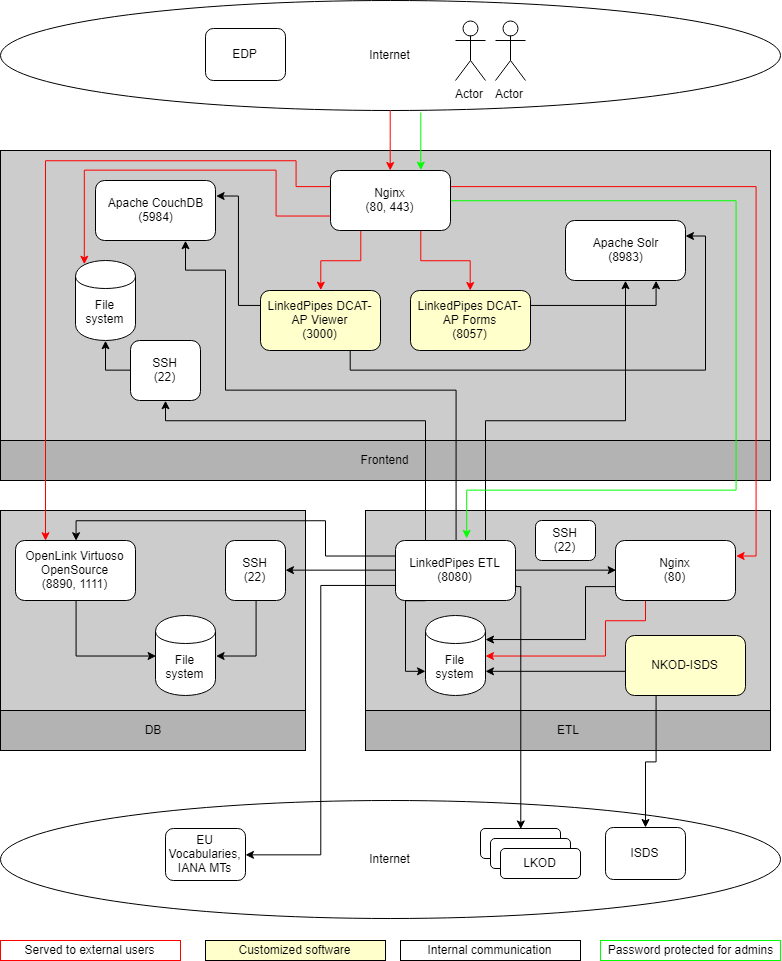
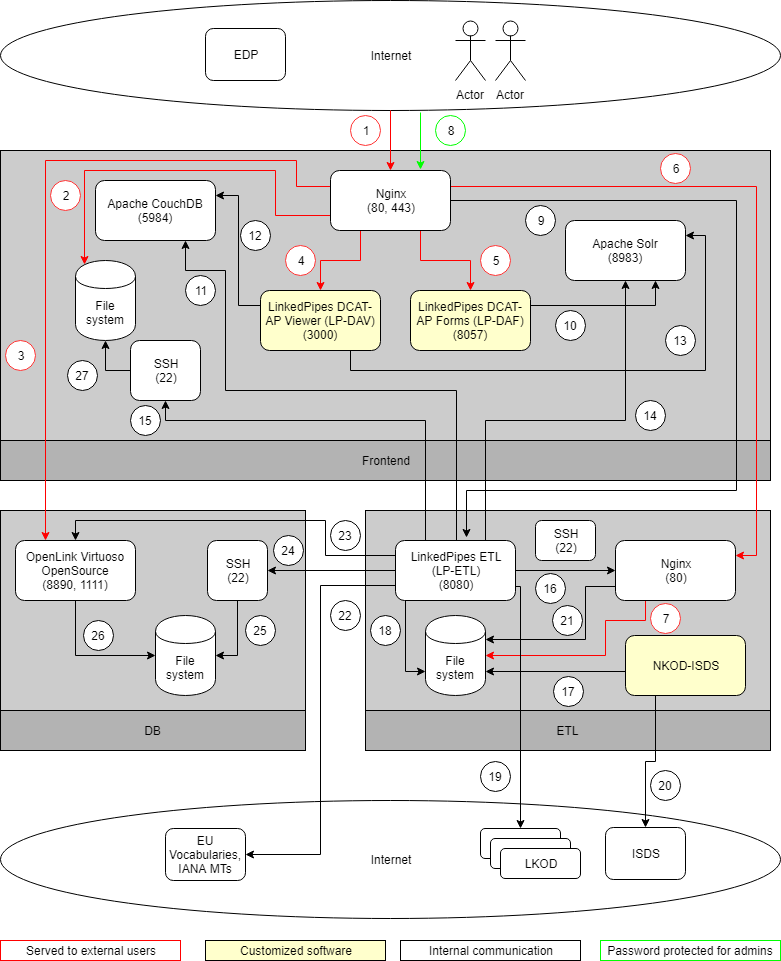
Popsat komunikační diagram

diff --git a/admin.md b/admin.md
@@ -6,8 +6,38 @@ Národní katalog otevřených dat se skládá z 5 propojených hlavních část
 4. Vyzvedávač datových zpráv z ISDS ([NKOD-ISDS](https://github.com/opendata-mvcr/nkod-isds))
 5. Databáze pro dotazování nad metadaty a poskytování metadat Evropskému datovému portálu ([OpenLink Virtuoso Open-Source](https://github.com/openlink/virtuoso-opensource))
 
-Komunikace jednotlivých částí je ilustrována v diagramu komunikace.
+## Přehled kopmponent a jejich komunikace
+Komunikace jednotlivých částí je ilustrována v diagramu komunikace a popsána v této sekci (nakresleno v [draw.io](https://draw.io) - [zdroj](https://github.com/opendata-mvcr/nkod/raw/master/diagramy/communication.xml)).
+![Diagram komponent a jejich komunikace](https://github.com/opendata-mvcr/nkod/raw/master/diagramy/communication.png)
+1. Přístup přes protokoly HTTP a HTTPS. Využívají ho jak lidští uživatelé, tak aplikace přistupující na SPARQL endpointy nebo stahující dumpy.
+2. Stahování dumpů s obsahem NKOD.
+3. Přístup ke SPARQL endpointům, například pro [EDP](https://europeandataportal.eu).
+4. Přístup k prohlížeči datových sad (LinkedPipes DCAT-AP Viewer - LP-DAV).
+5. Přístup k zadávacím formulářům (LinkedPipes DCAT-AP Forms - LP-DAF).
+6. Přístup k prohlížení datových zpráv vyzvednutých z datové schránky NKOD a jejich metadat (přístup na nginx).
+7. Přístup k prohlížení datových zpráv vyzvednutých z datové schránky NKOD a jejich metadat (přístup na filesystem).
+8. Zabezpečené přihlášení k frontendu LinkedPipes ETL (LP-ETL) pro monitorování běhu pipeline (přístup na nginx).
+9. Zabezpečené přihlášení k frontendu LinkedPipes ETL (LP-ETL) pro monitorování běhu pipeline (komunikace s LP-ETL).
+10. LinkedPipes DCAT-AP Forms používá Apache Solr pro autocomplete číselníků.
+11. LinkedPipes ETL nahrávají do CouchDB číselníky pro LP-DAV a LP-DAF a záznamy pro jednotlivé datové sady pro LP-DAV.
+12. LP-DAV načítá záznamy o detailech datových sad z Apache CouchDB.
+13. LP-DAV využívá Apache Solr pro vyhledvání datových sad.
+14. LP-ETL nahrává index a číselníky do Apache Solr.
+15. LP-ETL nahrává přes SSH/SCP dumpy ke stažení (komunikace s SSH), navazuje 27 - uložení do filesystému.
+16. LP-ETL si přes nginx vyzvedává externí číselníky a datové sady z cache.
+17. NKOD-ISDS ukládá vyzvednuté datové zprávy do filesystému.
+18. LP-ETL nahrává vyzvednuté datové zprávy a jejich metadata z filesystému. Naopak ukládá do cache externí datové sady a číselníky.
+19. LP-ETL harvestuje jednotlivé lokální katalogy otevřených dat (LKODy).
+20. NKOD-ISDS vyzvedává datové zprávy a jejich metadata z ISDS.
+21. nginx zpřístupňuje vyzvednuté datové zprávy a jejich metadata pro prohlížení.
+22. LP-ETL stahuje externí číselníky a datové sady do cache.
+23. LP-ETL spouští nahrávací proces do databáze OpenLink Virtuoso nad soubory (26) skrz SQL, maže stávající obsah skrz HTTP
+24. LP-ETL nahrává skrz SSH/SCP soubory k nahrání do databáze OpenLink Virtuoso (komunikace s SSH)
+25. LP-ETL nahrává skrz SSH/SCP soubory k nahrání do databáze OpenLink Virtuoso (uložení do filesystému)
+26. OpenLink Virtuoso si vyzvedává soubory k nahrání z filesystému a nahrává je (na základě 23)
+27. LP-ETL nahrává přes SSH/SCP dumpy ke stažení (uložení do filesystému), navazuje na 15 - komunikace s SSH.
 
+# Nasazení
 Doporučený způsob nasazení vzhledem k minimalizaci vzájemného ovlivňování výkonu je na 3 oddělené stroje, pokud nepočítáme load-balancing a high-availability, což u NKOD zatím není potřeba:
 1. **NKOD-DB**: Zde poběží samotná databáze
 2. **NKOD-ETL**: Zde poběží harvestace lokálních katalogů a transformace dat, vyzvedávání zpráv z ISDS a cache externích číselníků a datových sad (seznam OVM)
@@ -116,7 +146,7 @@ V této sekci je popsán doporučený postup instalace stroje **NKOD-FRONTEND** 
    5. Reverse-proxy na LinkedPipes ETL na NKOD-ETL (zabezpečeno alespoň heslem)
    6. Reverse-proxy na NKOD-ISDS adresář se staženými datovými zprávami a jejich přílohami
 
-## Příprava
+# Příprava
 Před naplánováním stahování z ISDS a spouštění pipeline v LP-ETL je třeba systém inicializovat zejména externími číselníky a datovými sadami. Je tedy třeba (nakonfigurovat a) spustit pipeliny v pořadí daném čísly v jejich značkách. Tedy:
 1. `External Resources Cache` - stáhne evropské číselníky a použité pomocné dokumenty z Google Drive
 2. `Seznam OVM` - stáhne aktuální datovou sadu Seznam OVM pro kontrolu datových schránek OVM
@@ -127,5 +157,5 @@ Před naplánováním stahování z ISDS a spouštění pipeline v LP-ETL je tř
  
 Pak lze v cronu na **NKOD-ETL** v `/etc/cron.d/nkod` naplánovat spouštění NKOD-ISDS a pipeline `Forms and LKODs to NKOD` v LP-ETL
 
-## Monitoring
+# Monitoring
 Je třeba zejména na **NKOD-ETL** monitorovat místo na disku, které může dojít kvůli velikosti logů, pokud bude v produkčním prostředí poddimenzována velikost disku.
